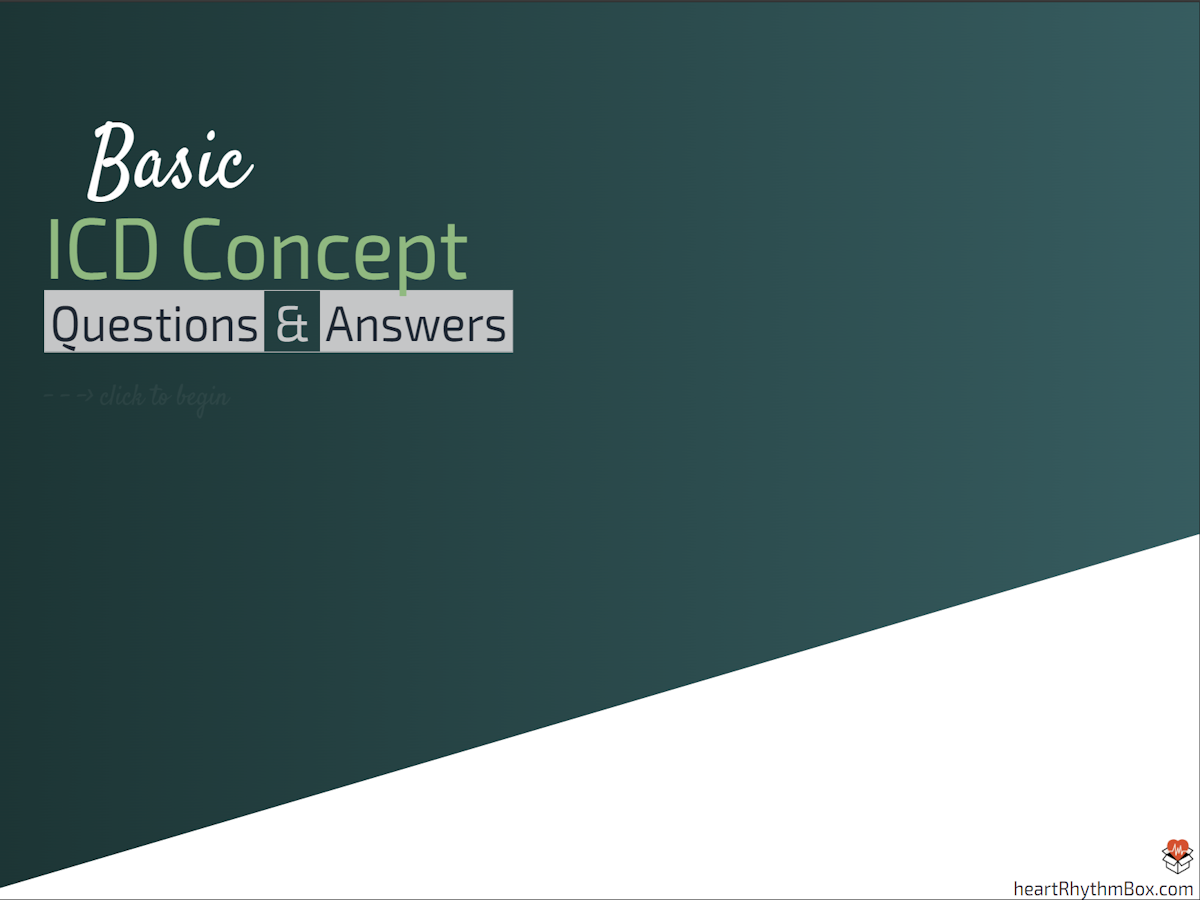
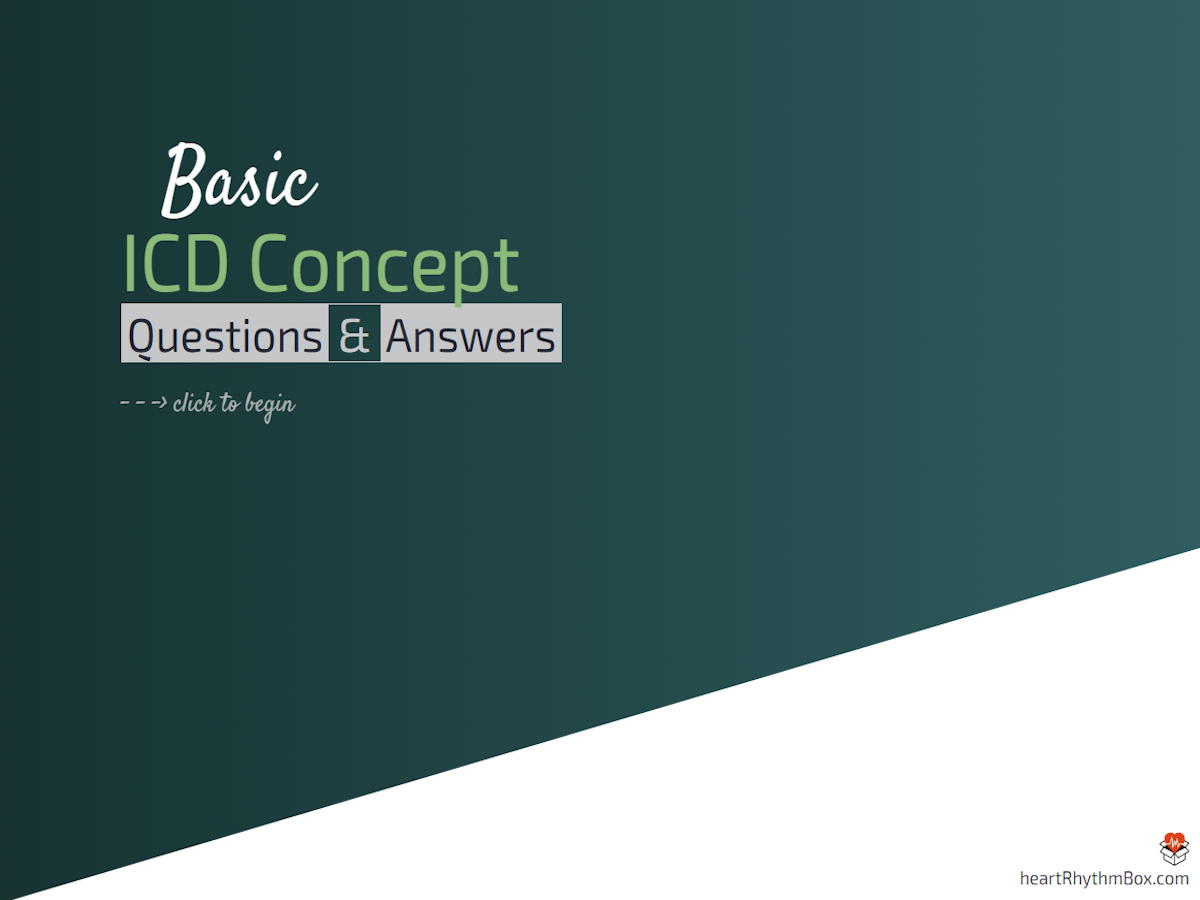
a

diff --git a/BasicICDQA/index.html b/BasicICDQA/index.html
@@ -44,7 +44,7 @@
   transform: skewY(-15deg);transform-origin: top left}
 .titleTxt {transform: skewY(15deg);transform-origin: top left}
 .titlePad {padding: 15vh 10vw 10vh 10vw;cursor: pointer;}
-.fbPos {top: 92vh;right: 2vw;position: absolute;font-size:1.2vmax;line-height: 150%;text-align: right}
+.fbPos {top: 90vh;right: 5vw;position: absolute;font-size:1.2vmax;line-height: 150%;text-align: right}
 #title {font-size:2vmax;color:#c5c6c7;font-family: 'Roboto', sans-serif;line-height: 100%}
 
 
